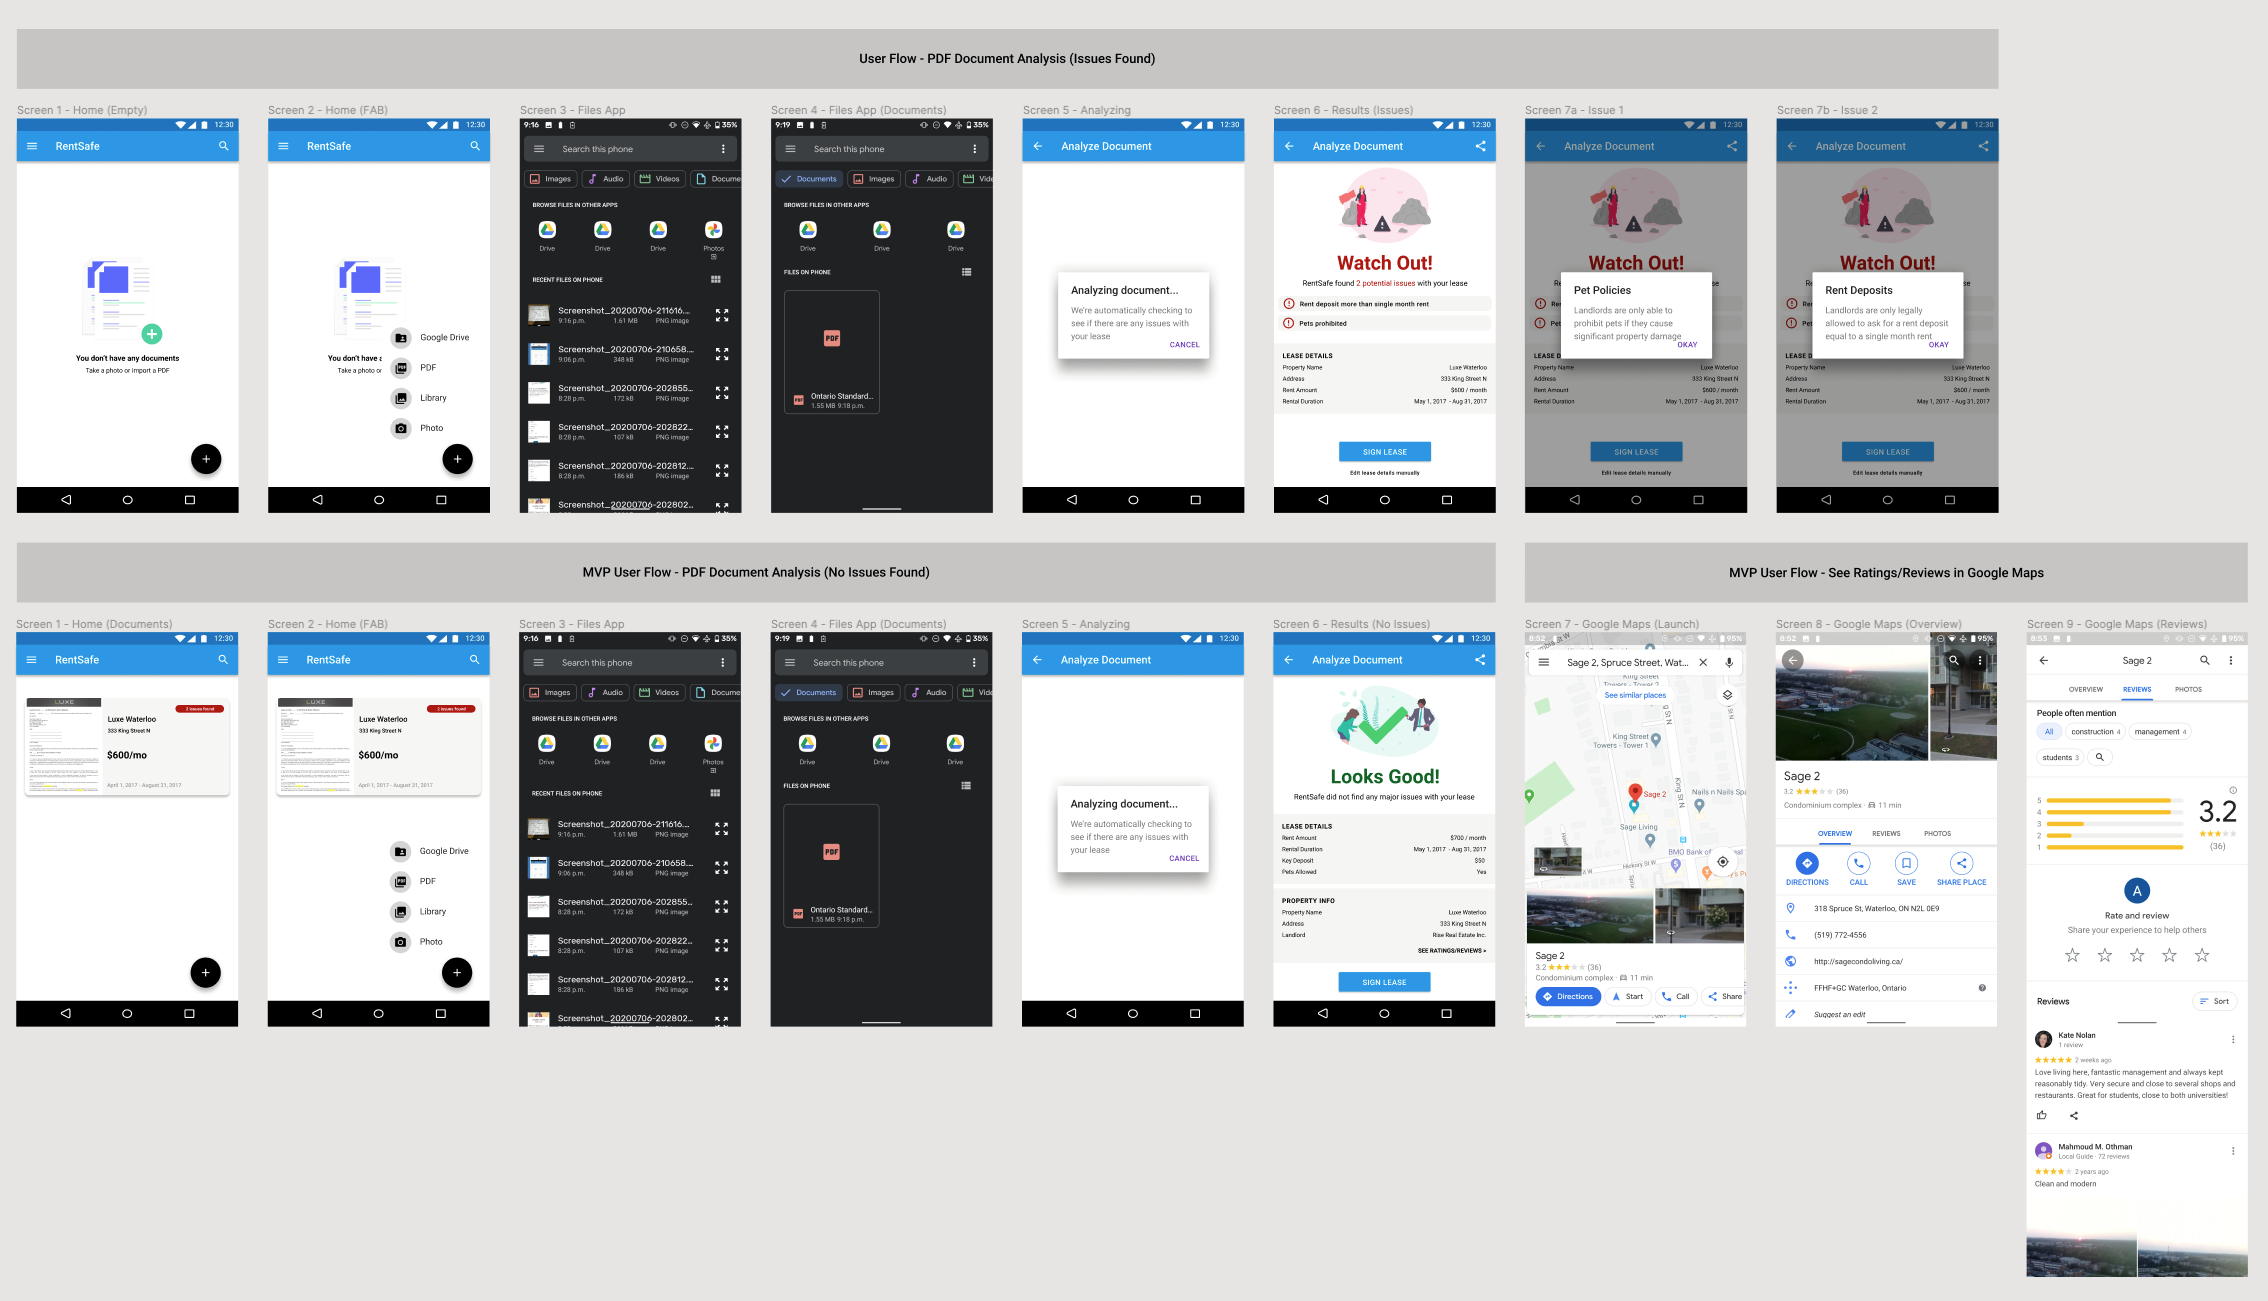
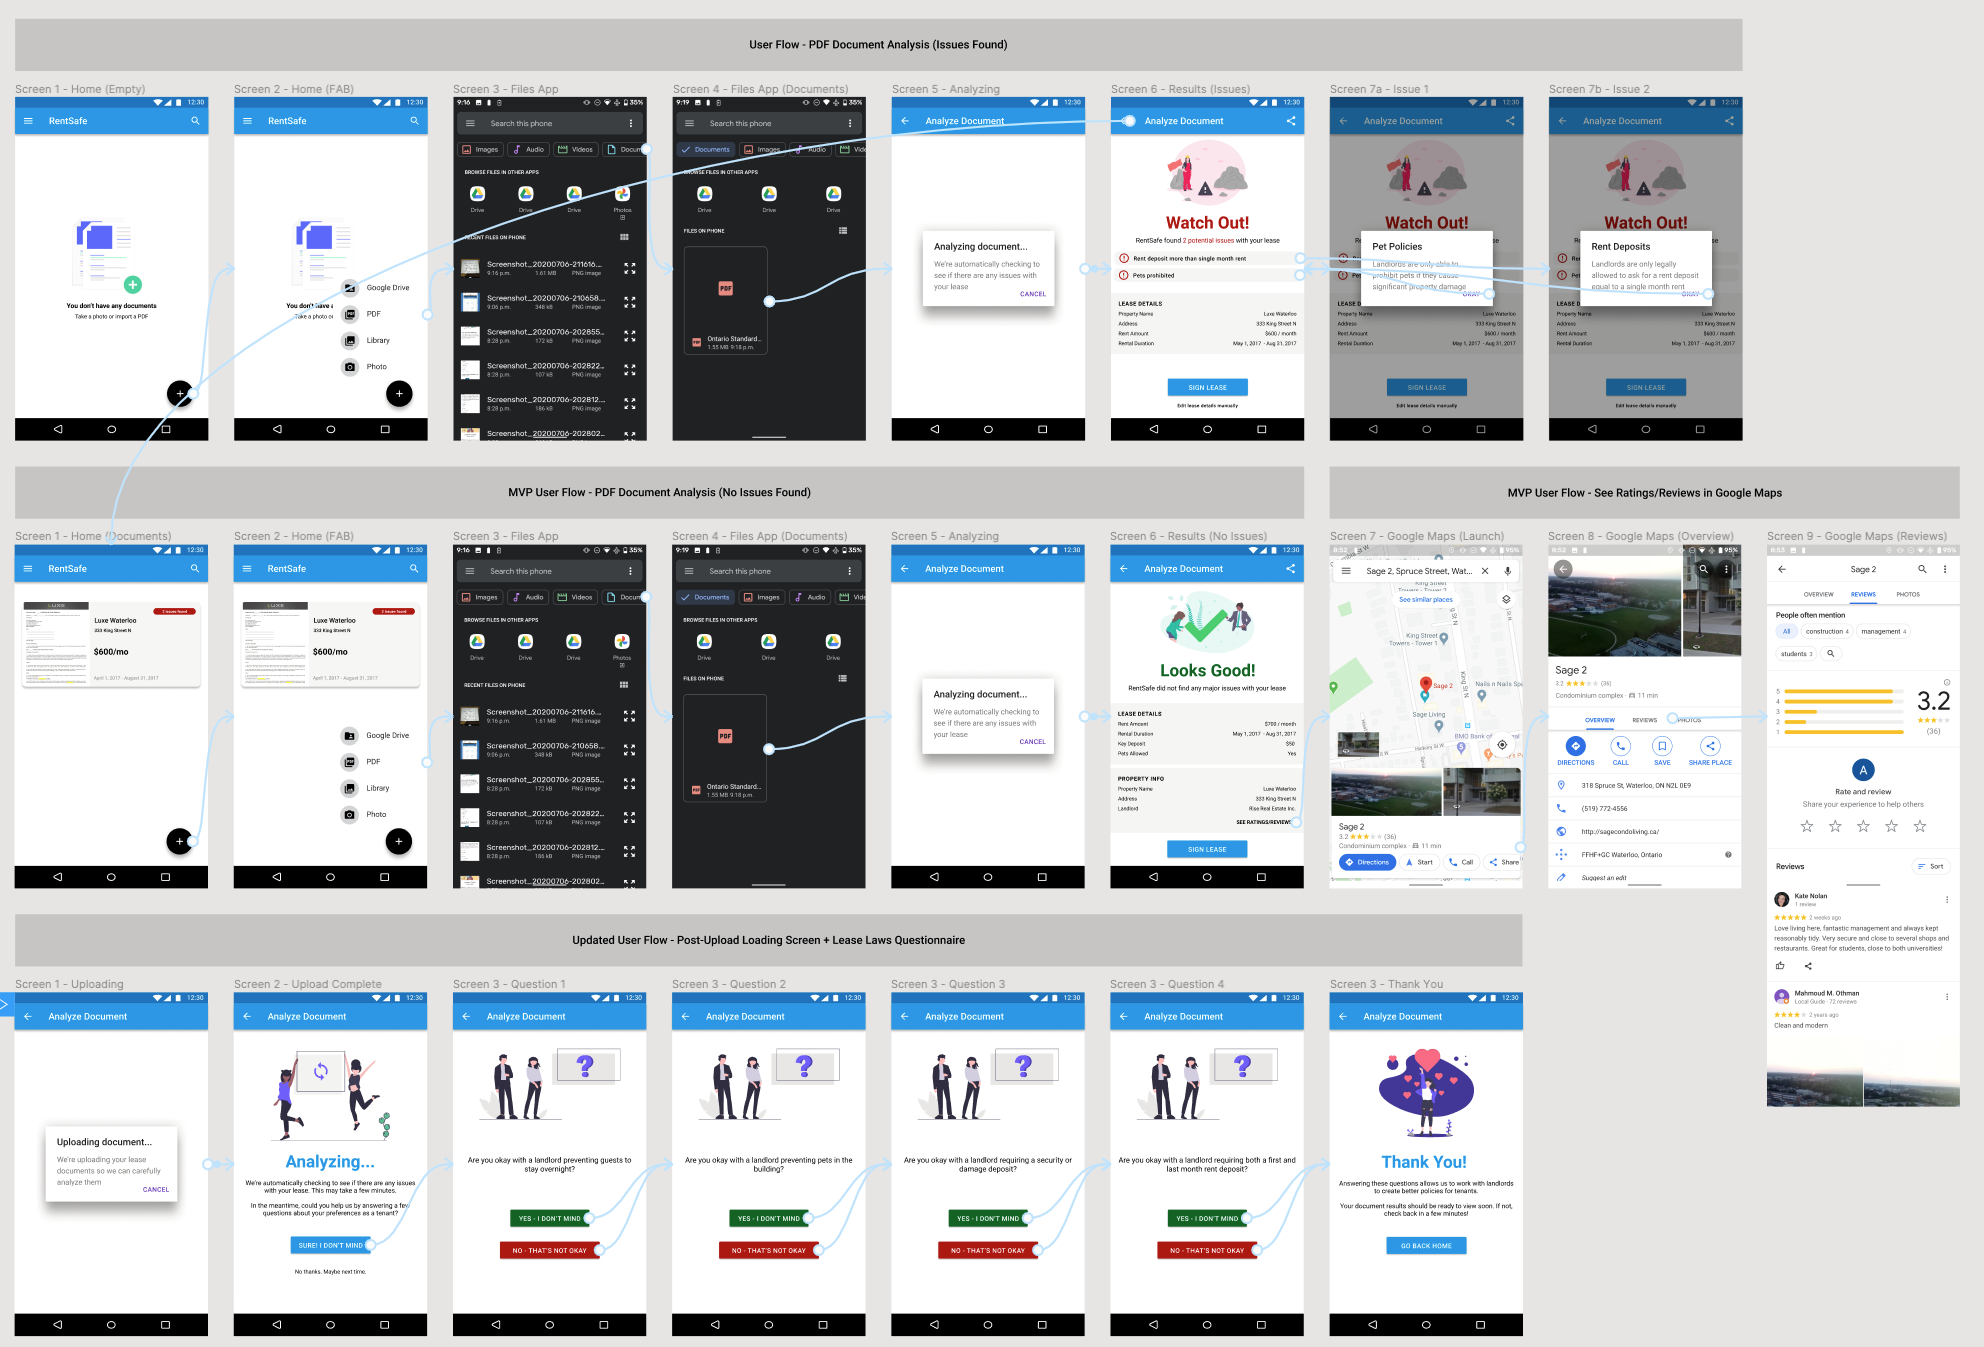
design: add screens asking user tenant law questions + update flow after choosing document to upload

diff --git a/design/FIGMA Prototype.md b/design/FIGMA Prototype.md
@@ -3,3 +3,4 @@ FIGMA Prototype.md
 https://www.figma.com/proto/CpVnX2ipe3t2Db80L7AHA0/RentSafe?node-id=6%3A5&viewport=561%2C562%2C0.5069207549095154&frame-preset-name=Google%20Pixel%202&scaling=scale-down
 
 * added screens for viewing property ratings/reviews on Google Maps
+* added screens for asking user questions re: tenant laws + updated user flow after choosing document to upload

diff --git a/design/FIGMA Complete Design File.md b/design/FIGMA Complete Design File.md
@@ -3,3 +3,4 @@ FIGMA Complete Design File.md
 https://www.figma.com/file/CpVnX2ipe3t2Db80L7AHA0/RentSafe?node-id=3%3A0
 
 * added screens for viewing property ratings/reviews on Google Maps
+* added screens for asking user questions re: tenant laws + updated user flow after choosing document to upload
